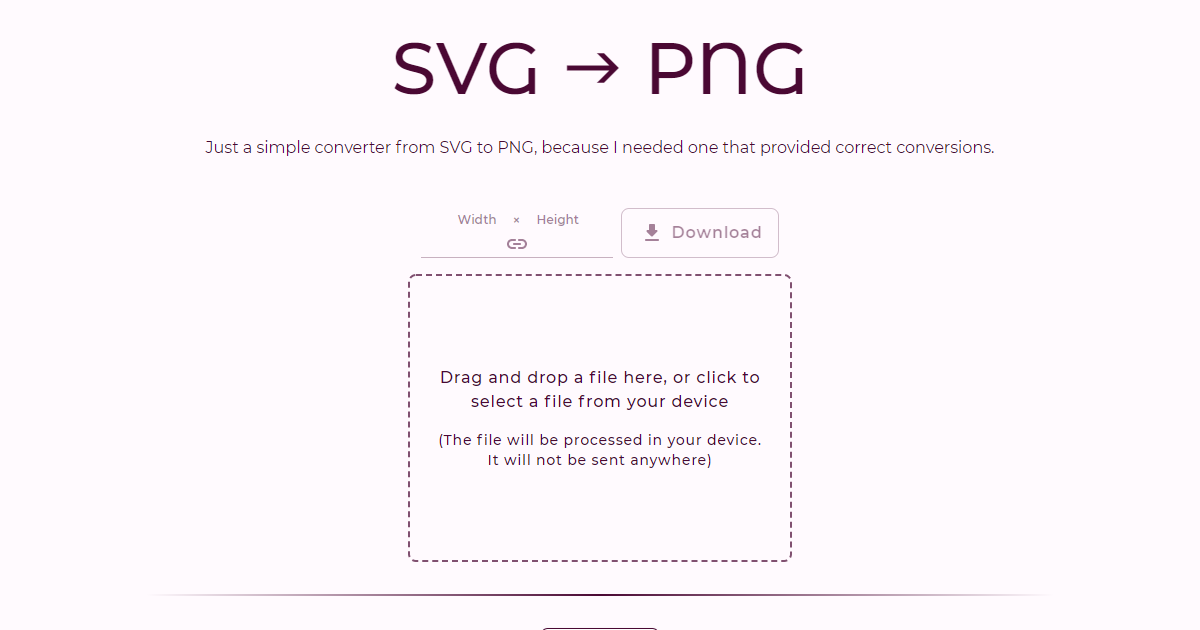
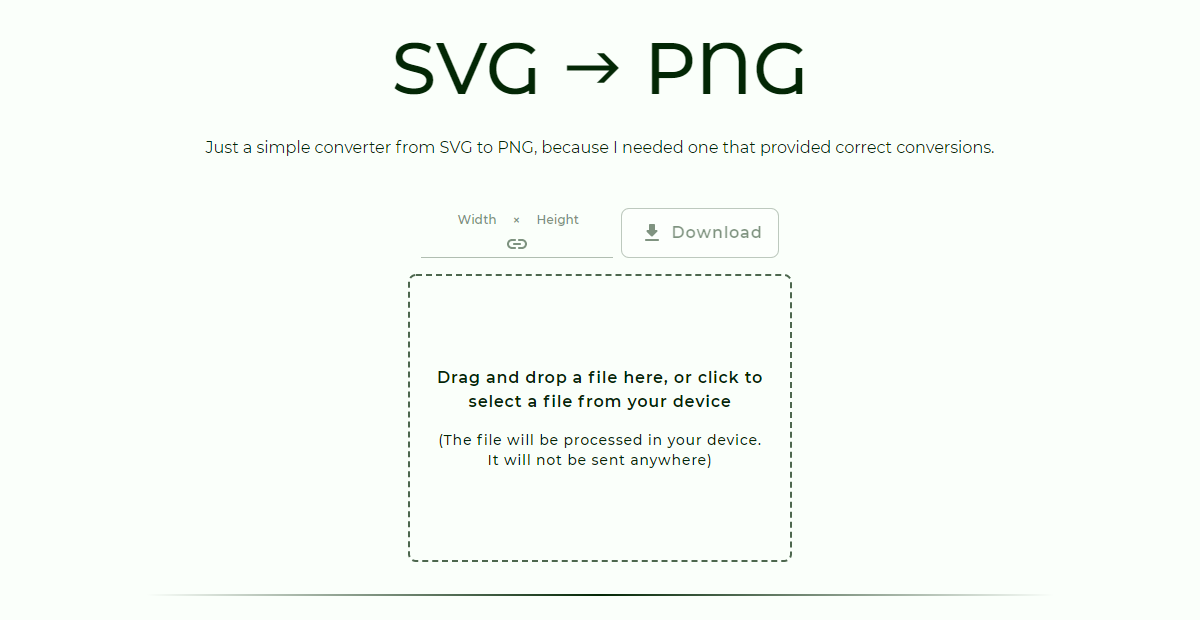
Minor style changes

diff --git a/src/styles.css b/src/styles.css
@@ -32,81 +32,36 @@
     font-variant: small-caps;
   }
 
-  .tpg-app-title {
-    @apply font-display font-medium text-secondary text-left text-xl;
+  .tpg-title {
+    @apply font-display font-medium text-secondary text-5xl sm:text-7xl whitespace-nowrap;
   }
-  .tpg-title-6 {
-    @apply font-sans font-medium text-secondary text-left text-base;
+  .tpg-controller {
+    @apply font-sans font-semibold text-secondary text-base tracking-wider;
   }
-  .tpg-menu-1 {
-    @apply font-sans font-semibold text-secondary text-left text-base tracking-wider;
+  .tpg-controller-info {
+    @apply font-sans font-medium text-secondary text-sm;
   }
-  .tpg-menu-2 {
-    @apply font-sans font-medium text-secondary text-left text-sm tracking-widest;
+  .tpg-controller-label {
+    @apply font-sans font-semibold text-secondary text-xs text-opacity-70;
   }
-  .tpg-list-1 {
-    @apply font-sans font-bold text-secondary text-left text-xs;
+  .tpg-body-1 {
+    @apply font-sans font-normal text-secondary text-base;
   }
-  .tpg-list-2 {
-    @apply font-sans font-medium text-secondary text-left text-xs;
+  .tpg-body-2 {
+    @apply font-sans font-normal text-secondary text-sm;
   }
   .tpg-caption {
-    @apply font-sans font-medium text-secondary text-left text-tiny;
+    @apply font-sans font-semibold text-secondary text-left text-xs;
   }
   .tpg-prop-label {
     @apply font-sans font-semibold text-secondary text-left text-xs;
   }
-  .tpg-tool-label {
-    @apply font-sans font-semibold text-secondary text-left text-xs text-opacity-70;
-  }
-  .tpg-colrow {
-    @apply font-sans font-normal text-secondary text-left text-sm;
-  }
 }
 
 @layer components {
-  .btn-primary {
-    @apply inline-block bg-primary text-secondary font-bold px-8 py-3 rounded-lg uppercase tracking-wide shadow;
-    @apply hover:bg-surface hover:bg-opacity-20;
-    @apply ringed-focus focus:ring-inset focus:ring-offset-0 focus:ring-secondary focus:ring-opacity-80;
-    @apply active:bg-surface active:bg-opacity-50 active:shadow-none active:ring-0;
-  }
-
-  .btn-secondary {
-    @apply inline-block bg-surface text-secondary font-medium px-3 py-2 rounded-lg;
-    @apply hover:bg-primary hover:bg-opacity-20 hover:shadow-sm;
-    @apply ringed-focus focus:ring-inset focus:ring-offset-0;
-    @apply active:bg-primary active:bg-opacity-50 active:shadow-none active:ring-0;
-  }
-
-  .icon-btn-primary {
-    @apply block bg-primary text-secondary rounded-full;
-    @apply hover:bg-surface hover:bg-opacity-20;
-    @apply ring-secondary ring-opacity-80 ring-inset;
-    @apply active:bg-surface active:bg-opacity-50 active:ring-0;
-  }
-
-  .icon-btn-primary-disabled {
-    @apply block bg-primary text-secondary rounded-full opacity-50 cursor-default;
-    @apply ring-secondary ring-opacity-80 ring-inset;
-  }
-
-  .icon-btn-secondary {
-    @apply block bg-surface text-secondary rounded-full;
-    @apply hover:bg-primary hover:bg-opacity-20;
-    @apply ring-primary ring-opacity-80 ring-inset;
-    @apply active:bg-primary active:bg-opacity-50 active:ring-0;
-  }
-
-  .list-element {
-    @apply flex-none;
-  }
-
-  .list-element .focusable {
-    @apply tpg-list-2 px-4 h-full w-full flex items-center;
-    @apply hover:bg-primary hover:bg-opacity-20;
-    @apply ring-primary ring-opacity-80 ring-inset;
-    @apply active:bg-primary active:bg-opacity-50 active:ring-0;
+  .no-spinner {
+    -moz-appearance: textfield;
+    appearance: none;
   }
 
   .no-spinner::-webkit-inner-spin-button,
@@ -173,8 +128,4 @@
 
 .popper-container[data-show] {
   display: block;
-}
-
-input[type='number'] {
-  -moz-appearance: textfield;
 }

diff --git a/src/LinkCheckbox.tsx b/src/LinkCheckbox.tsx
@@ -116,7 +116,7 @@ export default function LinkCheckbox(props: LinkCheckboxProps): ReactElement {
       <div
         aria-hidden="true"
         className={classNames(
-          'tpg-tool-label text-sm mt-0.5 text-center w-full',
+          'tpg-controller-label text-sm mt-0.5 text-center w-full',
           disabled && 'text-opacity-50',
           isFocused && 'text-primary text-opacity-100',
         )}
@@ -127,7 +127,7 @@ export default function LinkCheckbox(props: LinkCheckboxProps): ReactElement {
         <label
           className={classNames(
             'relative flex flex-none justify-center',
-            'w-full h-full tpg-menu-1 pt-6 text-center self-center',
+            'w-full h-full tpg-controller pt-6 text-center self-center',
             disabled ? 'text-opacity-50 cursor-not-allowed' : 'cursor-pointer',
             isFocused
               ? 'border-primary border-opacity-100 border-b-2 pb-0'
@@ -177,7 +177,7 @@ export default function LinkCheckbox(props: LinkCheckboxProps): ReactElement {
           <div
             className={classNames(
               'popper-container absolute z-10 bg-surface rounded-lg min-w-max p-2',
-              'elevation-dp8 focus:outline-none tpg-prop-label text-center',
+              'elevation-dp8 focus:outline-none tpg-controller-label text-center',
             )}
             data-show={isTooltipShown}
             ref={setPopperElement}

diff --git a/src/SvgLoader.tsx b/src/SvgLoader.tsx
@@ -29,7 +29,7 @@ const FileNameDisplay: FC<FileNameDisplayProps> = ({
 
   return (
     <div className={className}>
-      <span className="tpg-prop-label text-center flex justify-center flex-wrap">
+      <span className="tpg-caption text-center flex justify-center flex-wrap">
         <span className="flex-initial flex justify-center max-w-full">
           <span className="flex-initial block truncate">{namePart}</span>
           <span className="flex-none">{suffix}</span>
@@ -167,7 +167,7 @@ export default function SvgLoader(props: SvgLoaderProps): ReactElement {
         <div
           className={classNames(
             'w-full h-full flex items-center justify-center',
-            'font-sans font-medium text-secondary text-center text-base tracking-wider',
+            'tpg-controller text-center',
           )}
         >
           {isLoading ? (
@@ -221,7 +221,7 @@ export default function SvgLoader(props: SvgLoaderProps): ReactElement {
                   id="app.upload-resource.message-body"
                 />
               </p>
-              <p className="text-sm">
+              <p className="tpg-controller-info">
                 <FormattedMessage
                   defaultMessage="(The file will be processed in your device. It will not be sent anywhere)"
                   id="app.upload-resource.message-disclaimer"

diff --git a/src/SvgConverter.tsx b/src/SvgConverter.tsx
@@ -83,8 +83,8 @@ export default function SvgConverter(props: SvgConverterProps): ReactElement {
       />
       <button
         className={classNames(
-          'w-max h-full tpg-menu-1 flex flex-none justify-center rounded-lg',
-          'text-secondary bg-transparent p-0 pt-2.5 pb-2.5 px-4',
+          'w-max h-full tpg-controller flex flex-none justify-center rounded-lg',
+          'bg-white p-0 pt-2.5 pb-2.5 px-4',
           'focus:outline-primary',
           'disabled:cursor-not-allowed disabled:opacity-50',
           'disabled:border disabled:border-secondary disabled:border-opacity-50',
@@ -222,7 +222,7 @@ function DimensionInput({
     <>
       <label
         className={classNames(
-          'tpg-tool-label mt-1 mr-0 mb-0 px-1',
+          'tpg-controller-label mt-1 mr-0 mb-0 px-1',
           isFocused && 'text-primary text-opacity-100',
           disabled && 'text-opacity-50',
           {
@@ -236,7 +236,7 @@ function DimensionInput({
       </label>
       <input
         className={classNames(
-          'w-full h-full tpg-menu-1 no-spinner',
+          'w-full h-full tpg-controller no-spinner',
           'bg-transparent p-0 pt-5 px-1 border-0',
           disabled && 'text-opacity-50 cursor-not-allowed',
           !disabled && 'hover:bg-primary hover:bg-opacity-20',

diff --git a/src/i18n/LanguageSelector.tsx b/src/i18n/LanguageSelector.tsx
@@ -9,14 +9,14 @@ export default function LanguageSelector(): ReactElement {
 
   // TODO: Add a localized label for screen readers only
   return (
-    <label className="bg-surface inline-block rounded-lg">
+    <label className="inline-block rounded-lg">
       <select
-        className="capitalize font-semibold rounded-lg border-secondary shadow ringed-focus focus:border-secondary focus:ring-inset active:shadow-none"
+        className=" bg-white capitalize tpg-controller rounded-lg border-secondary shadow ringed-focus focus:border-secondary focus:ring-inset active:shadow-none"
         defaultValue={currentLocale}
         onChange={onChangeSelectedLanguage}
       >
         {availableLocales.map(({ code, ownDisplayName }) => (
-          <option className="capitalize font-semibold" key={code} value={code}>
+          <option className="capitalize tpg-controller" key={code} value={code}>
             {ownDisplayName}
           </option>
         ))}

diff --git a/src/Footer.tsx b/src/Footer.tsx
@@ -12,7 +12,7 @@ const Footer: React.FC = () => {
       <div>
         <LanguageSelector />
       </div>
-      <div className="pt-8">
+      <div className="pt-6">
         <a
           href="https://github.com/Josan-Coba/svg-to-png"
           rel="noreferrer"
@@ -21,7 +21,7 @@ const Footer: React.FC = () => {
           <img alt="GitHub Repository" className="mx-auto" src={githubLogo} />
         </a>
       </div>
-      <div className="py-8 align-middle">
+      <div className="pt-6 pb-8 align-middle tpg-body-2">
         <FormattedMessage
           defaultMessage="Made with ❤ by <a>Josan</a>"
           id="app.footer.made-by"

diff --git a/src/FrontPage.tsx b/src/FrontPage.tsx
@@ -8,10 +8,10 @@ const FrontPage: React.FC = () => {
   return (
     <div className="text-center">
       <div className="my-8">
-        <h1 className="font-display font-medium text-secondary text-5xl sm:text-7xl whitespace-nowrap">
+        <h1 className="tpg-title text-center">
           <FormattedMessage defaultMessage="SVG 🡒 PNG" id="app.title" />
         </h1>
-        <div className="my-8">
+        <div className="my-8 tpg-body-1">
           <FormattedMessage
             defaultMessage="Just a simple converter from SVG to PNG, because I needed one that provided correct conversions."
             id="app.description"

diff --git a/webpack.js b/webpack.js
@@ -151,7 +151,7 @@ module.exports = {
     new FaviconsWebpackPlugin({
       favicons: {
         appDescription: null,
-        background: '#4A0734',
+        background: '#022702',
         developerURL: null,
         icons: {
           android: false,
@@ -163,7 +163,7 @@ module.exports = {
           windows: false,
           yandex: false,
         },
-        theme_color: '#FF92DA',
+        theme_color: '#94FF96',
       },
       inject: true,
       logo: './src/static/logo.svg',

diff --git a/tailwind.config.js b/tailwind.config.js
@@ -1,9 +1,9 @@
 const defaultTheme = require('tailwindcss/defaultTheme')
 const plugin = require('tailwindcss/plugin')
 
-const COLOR_PRIMARY = '#FF92DA'
-const COLOR_SECONDARY = '#4A0734'
-const COLOR_SURFACE = '#FFFAFE'
+const COLOR_PRIMARY = '#FF92DA' // '#94FF96'
+const COLOR_SECONDARY = '#022702'
+const COLOR_SURFACE = '#FAFFFA'
 
 module.exports = {
   darkMode: false, // or 'media' or 'class'
